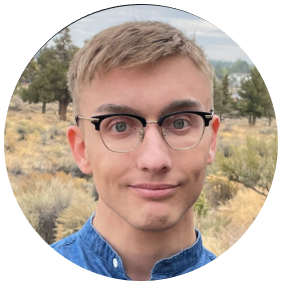
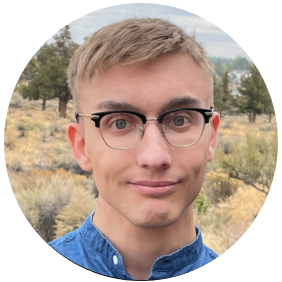
clearing unnecessary files

diff --git a/index.html b/index.html
@@ -37,7 +37,7 @@
                     <p><a href="https://grugbrain.dev/" target="_blank">Grugbrained</a> developer.</p>
                 </div>
                 
-                <img src="headshot.png"/>
+                <img src="avi.png"/>
             </header>
             
             <!-- <nav>
